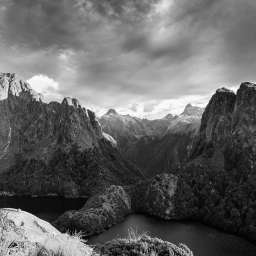
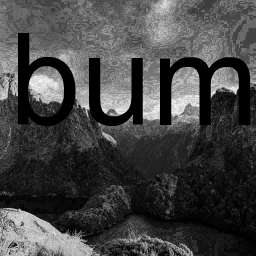
working and a bit more tidy now

diff --git a/server/static/jimp.js b/server/static/jimp.js
@@ -1,101 +1,40 @@
 const Jimp = require('jimp');
 
-const runJimp = async res => {
+const runJimp = async (req, res, next) => {
 	try {
-		//if you are following along, create the following 2 images relative to this script:
-		const imgRaw = 'image1.png'; //a 1024px x 1024px background image
-		const imgLogo = ''; //a 155px x 72px logo
-		//---
-
 		const imgActive = 'server/static/images/active/image1.jpeg';
 		const imgExported = 'server/static/images/export/image1.jpeg';
 
 		const textData = {
-			text: 'playlist name', //the text to be rendered on the image
+			text: 'bum', //the text to be rendered on the image
 			maxWidth: 1004, //image width - 10px margin left - 10px margin right
 			maxHeight: 92, //logo height + margin
 			x: 10, // 10px in on the x axis
 			y: 924, //bottom of the image: height - maxHeight - margin
 		};
-		let font = await Jimp.loadFont(Jimp.FONT_SANS_32_BLACK);
 		Jimp.read(imgActive)
-			.then(Jimp.loadFont(Jimp.FONT_SANS_32_BLACK))
-			.then(lenna => {
-				return lenna
+			.then(image => {
+				return image
 					.resize(256, 256) // resize
 					.quality(60) // set JPEG quality
-					.greyscale() // set greyscale
-					.print(font => {
-						lenna.print(
-							font,
-							textData.x,
-							textData.y,
-							{
-								text: textData.text,
-								alignmentX: Jimp.HORIZONTAL_ALIGN_CENTER,
-								alignmentY: Jimp.VERTICAL_ALIGN_MIDDLE,
-							},
-							textData.maxWidth,
-							textData.maxHeight,
-						);
-					}) // add copy
-					.write(imgExported); // save
+					.greyscale(); // set greyscale
+			})
+			.then(image => {
+				Jimp.loadFont(Jimp.FONT_SANS_32_BLACK).then(font => {
+					image.print(font, 10, 10, textData.text).write(imgExported);
+				});
 			})
 			.catch(err => {
 				// Handle an exception.
 				console.error(err);
 			});
-
-		// //read template & clone raw image
-		// Jimp.read(imgRaw)
-		//   .then(tpl => (tpl.clone().write(imgActive)))
-
-		//   //read cloned (active) image
-		//   .then(() => (Jimp.read(imgActive)))
-
-		//   //combine logo into image
-		//   .then(tpl => (
-		//     Jimp.read(imgLogo).then(logoTpl => {
-		//       logoTpl.opacity(0.2);
-		//       return tpl.composite(logoTpl, 512-75, 512, [Jimp.BLEND_DESTINATION_OVER, 0.2, 0.2]);
-		//     });
-		//   );
-
-		//   //load font
-		//   .then(tpl => (
-		//     Jimp.loadFont(Jimp.FONT_SANS_32_WHITE).then(font => ([tpl, font]))
-		//   ))
-
-		//   //add footer text
-		//   .then(data => {
-
-		//     tpl = data[0];
-		//     font = data[1];
-
-		//     return tpl.print(font, textData.placementX, textData.placementY, {
-		//       text: textData.text,
-		//       alignmentX: Jimp.HORIZONTAL_ALIGN_CENTER,
-		//       alignmentY: Jimp.VERTICAL_ALIGN_MIDDLE
-		//     }, textData.maxWidth, textData.maxHeight);
-		//   })
-
-		//   //export image
-		//   .then(tpl => (tpl.quality(100).write(imgExported)))
-
-		//   //log exported filename
-		//   .then(tpl => {
-		//     console.log('exported file: ' + imgExported);
-		//   })
-
-		//   //catch errors
-		//   .catch(err => {
-		//     console.error(err);
-		//   });
 		console.log('done');
-		return { status: 200, status_text: 'done' };
+		res.status(200).json({
+			status: 'Cover art has been generated',
+		});
 	} catch (error) {
 		console.log(error);
-		return { status: 400, status_text: 'not done' };
+		return { status: 400, status_text: 'Cover art not generated' };
 	}
 };
 

diff --git a/server/jimp-it.js b/server/jimp-it.js
@@ -1,0 +1,53 @@
+const Jimp = require('jimp');
+
+const imgActive = 'server/static/images/active/image1.jpeg';
+const imgExported = 'server/static/images/export/image1.jpeg';
+let textData = {
+	text: 'this is cool', //the text to be rendered on the image
+	maxWidth: 1004, //image width - 10px margin left - 10px margin right
+	maxHeight: 92, //text height + margin
+	placementX: 10, // on the x axis
+	placementY: 94, //bottom of the image
+};
+
+const runJimpIt = async res => {
+	return (
+		Promise.all([
+			Jimp.read('server/static/images/active/image1.jpeg'),
+			Jimp.loadFont(Jimp.FONT_SANS_128_BLACK),
+		])
+			.then((image, font) => {
+				// Do stuff with the image.
+				image.print(
+					font,
+					textData.placementX,
+					textData.placementY,
+					{
+						text: textData.text,
+						alignmentX: Jimp.HORIZONTAL_ALIGN_CENTER,
+					},
+					textData.maxWidth,
+				);
+				return new Promise(resolve => {
+					setTimeout(() => {
+						resolve();
+					}, 10000);
+				});
+			})
+
+			// .then(image => {
+			// 	// Do stuff with the image.
+			// 	image.resize(256, 256);
+			// })
+			// .then(image => {
+			// 	// Do stuff with the image.
+			// 	image.write(imgExported);
+			// })
+			.catch(err => {
+				// Handle an exception.
+				console.log(err, 'there was an error');
+			})
+	);
+};
+
+module.exports = runJimpIt;

diff --git a/server/app.js b/server/app.js
@@ -1,6 +1,8 @@
 const express = require('express');
 const handlebars = require('express-handlebars');
 const runJimp = require('./static/jimp');
+const runJimpIt = require('./jimp-it');
+
 const bodyParserMiddleware = require('body-parser');
 
 const app = new express();
